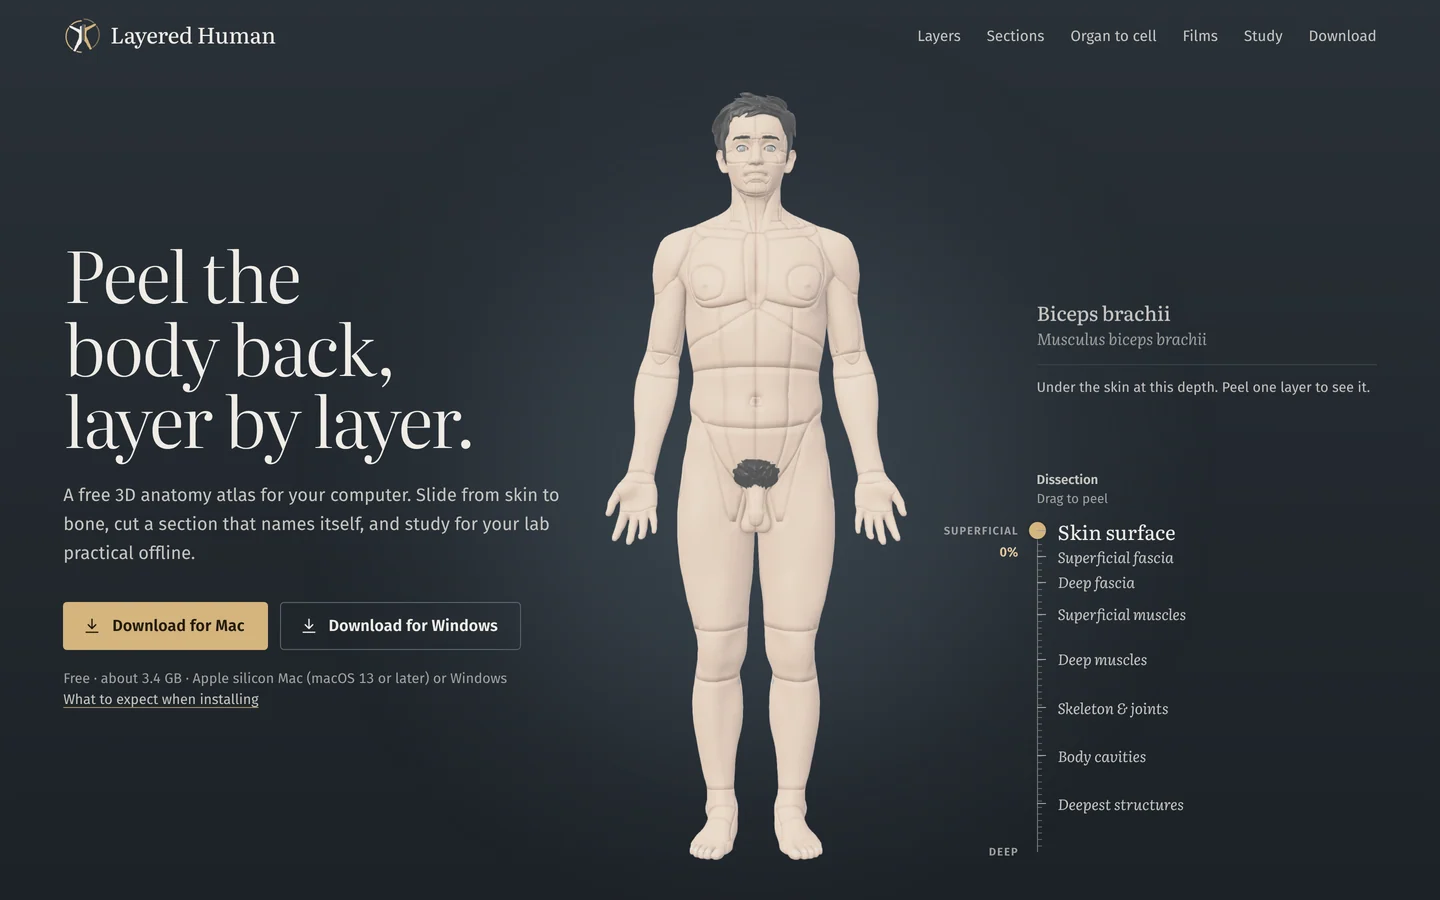
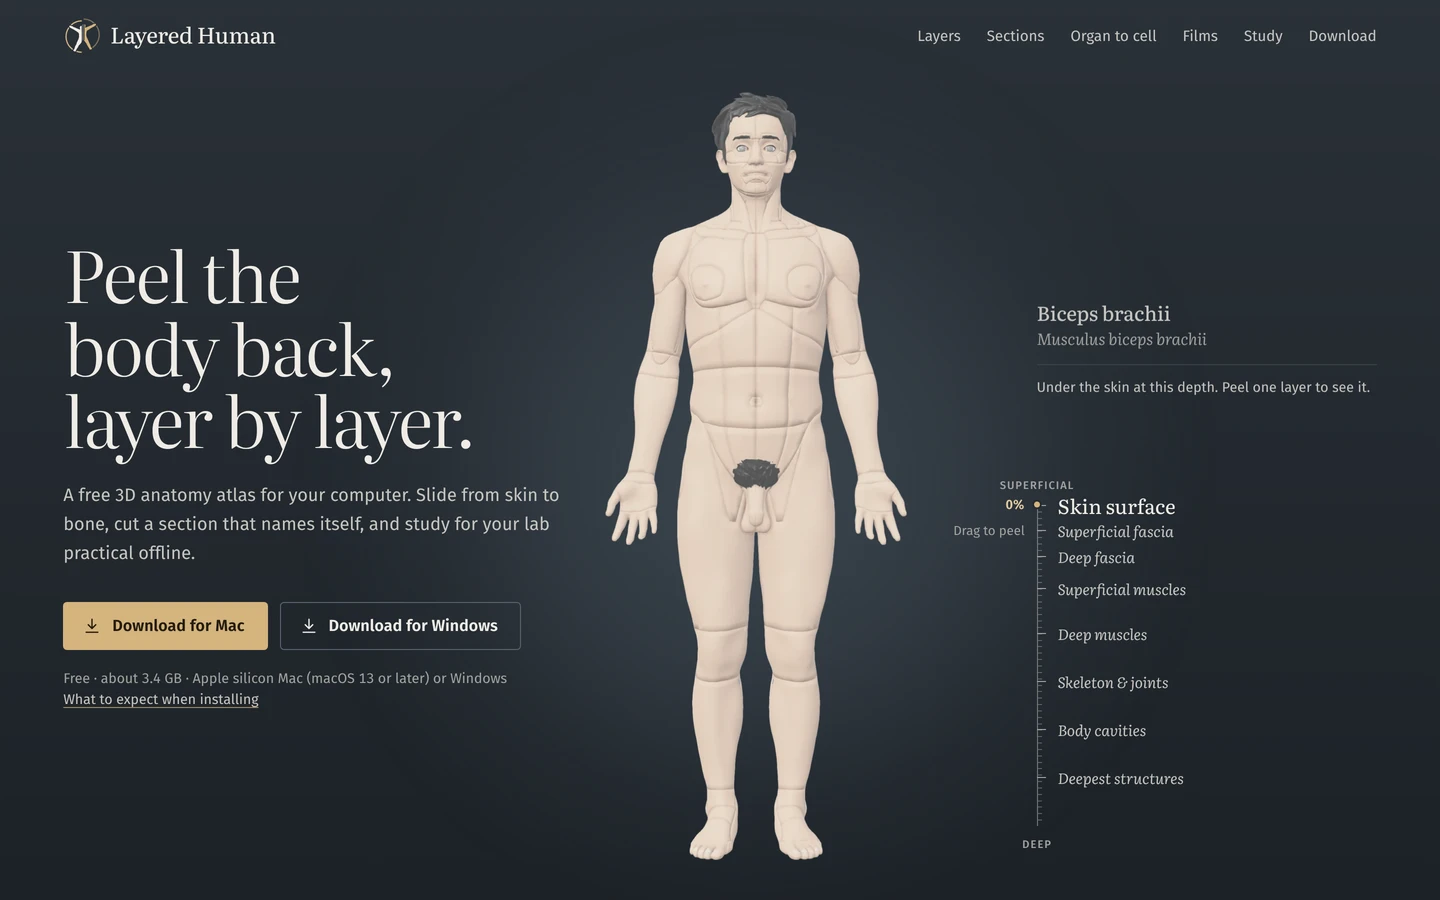
Website: no Dissection caption, knob the height of the percentage, phone hero without the lit rectangle, lighter first screen
The leg fade masked the figure's own spotlight pool at the figure's edges; it now masks only the plates. Hero plates
get 72% copies picked by device height, the first is preloaded, and the other images list smaller sizes in srcset.

Claude-Session: https://claude.ai/code/session_01V6Rv2hd8qtgD4JUJWb2Nr9

Changed region(s): [[0.6562, 0.5289, 0.8125, 0.9022], [0.6875, 0.9333, 0.7188, 0.9644]]

diff --git a/docs/design/2026-10-14-layered-human/site/specimen/index.html b/docs/design/2026-10-14-layered-human/site/specimen/index.html
@@ -377,7 +377,7 @@ main { overflow-x: clip; }
 .g-end.bot { top: calc(100% + 12px); }
 /* the percentage rides beside the knob, left of the rule; its figures span the knob exactly */
 .g-pct { position: absolute; right: calc(100% + 12px); top: calc(var(--d) * 100%); transform: translateY(-50%);
-  margin-top: .25px; font: 600 13px/18px var(--sans); color: var(--accent-2); font-variant-numeric: tabular-nums lining-nums; white-space: nowrap; }
+  font: 600 13px/18px var(--sans); color: var(--accent-2); font-variant-numeric: tabular-nums lining-nums; white-space: nowrap; }
 /* the one cue that the body peels: a quiet line under the percentage, gone once the gauge has been used */
 .g-cue { position: absolute; right: calc(100% + 12px); top: 17px; margin: 0; white-space: nowrap;
   font: 400 13px/18px var(--sans); color: var(--text-3); transition: opacity .4s var(--ease), visibility .4s; }
@@ -385,7 +385,7 @@ main { overflow-x: clip; }
 /* The knob is as tall as the percentage's figures, as in the app: a 6 px brass dot in a 1.75 px ring of the wall's own
    colour, 9.5 px across. The invisible ::after keeps the target at 24 px for a mouse and 44 px for a finger. */
 .g-knob {
-  position: absolute; left: .5px; top: calc(var(--d) * 100%); transform: translate(-50%, -50%);
+  position: absolute; left: .5px; top: calc(var(--d) * 100%); transform: translate(-50%, calc(-50% - .5px));
   width: 6px; height: 6px; border-radius: 50%; background: var(--accent);
   box-shadow: 0 0 0 1.75px color-mix(in srgb, var(--stage-top) 50%, var(--stage-bottom));
   cursor: grab; touch-action: none; z-index: 2;
@@ -883,11 +883,11 @@ main { overflow-x: clip; }
   <div class="wrap">
     <ol class="gallery" id="gallery" aria-label="The same body at six dissection depths">
       <li><figure class="exhibit" tabindex="0">
-        <div class="pool peel-pool"><img class="lift" src="../../assets/plates/peel_00_skin.webp" srcset="img/peel_00_skin-420.webp 420w, ../../assets/plates/peel_00_skin.webp 929w" sizes="auto, (max-width: 760px) 62vw, 200px" width="929" height="2240" loading="lazy" alt="The body at 0% dissection depth: the skin surface, nothing removed"></div>
+        <div class="pool peel-pool"><img class="lift" src="../../assets/plates/peel_00_skin.webp" srcset="img/peel_00_skin-420.webp 420w, img/peel_00_skin-m.webp 669w, ../../assets/plates/peel_00_skin.webp 929w" sizes="auto, (max-width: 760px) 62vw, 200px" width="929" height="2240" loading="lazy" alt="The body at 0% dissection depth: the skin surface, nothing removed"></div>
         <figcaption class="lit-fade"><span class="pl-name">Skin surface</span><span class="pl-depth">0–8%</span><span class="pl-line">The body as you first see it, nothing taken away.</span></figcaption>
       </figure></li>
       <li><figure class="exhibit" tabindex="0">
-        <div class="pool peel-pool"><img src="../../assets/plates/peel_16_fascia.webp" srcset="img/peel_16_fascia-420.webp 420w, ../../assets/plates/peel_16_fascia.webp 909w" sizes="auto, (max-width: 760px) 62vw, 200px" width="909" height="2194" loading="lazy" alt="The body at 16% dissection depth: the deep fascia over the muscles of the trunk and limbs"></div>
+        <div class="pool peel-pool"><img src="../../assets/plates/peel_16_fascia.webp" srcset="img/peel_16_fascia-420.webp 420w, img/peel_16_fascia-m.webp 654w, ../../assets/plates/peel_16_fascia.webp 909w" sizes="auto, (max-width: 760px) 62vw, 200px" width="909" height="2194" loading="lazy" alt="The body at 16% dissection depth: the deep fascia over the muscles of the trunk and limbs"></div>
         <figcaption class="lit-fade"><span class="pl-name">Deep fascia</span><span class="pl-depth">16–26%</span><span class="pl-line">The fascia that wraps the muscles of the trunk and limbs.</span></figcaption>
       </figure></li>
       <li><figure class="exhibit" tabindex="0">
@@ -895,15 +895,15 @@ main { overflow-x: clip; }
         <figcaption class="lit-fade"><span class="pl-name">Superficial muscles</span><span class="pl-depth">26–40%</span><span class="pl-line">The deltoid, the biceps, the abdominal wall and the front of the thigh.</span></figcaption>
       </figure></li>
       <li><figure class="exhibit" tabindex="0">
-        <div class="pool peel-pool"><img src="../../assets/plates/peel_40_deep.webp" srcset="img/peel_40_deep-420.webp 420w, ../../assets/plates/peel_40_deep.webp 894w" sizes="auto, (max-width: 760px) 62vw, 200px" width="894" height="2178" loading="lazy" alt="The body at 40% dissection depth: ribcage, abdominal organs and deep muscles exposed"></div>
+        <div class="pool peel-pool"><img src="../../assets/plates/peel_40_deep.webp" srcset="img/peel_40_deep-420.webp 420w, img/peel_40_deep-m.webp 644w, ../../assets/plates/peel_40_deep.webp 894w" sizes="auto, (max-width: 760px) 62vw, 200px" width="894" height="2178" loading="lazy" alt="The body at 40% dissection depth: ribcage, abdominal organs and deep muscles exposed"></div>
         <figcaption class="lit-fade"><span class="pl-name">Deep muscles</span><span class="pl-depth">40–55%</span><span class="pl-line">Ribcage, abdominal organs and the deep muscles.</span></figcaption>
       </figure></li>
       <li><figure class="exhibit" tabindex="0">
-        <div class="pool peel-pool"><img src="../../assets/plates/peel_55_skeleton.webp" srcset="img/peel_55_skeleton-420.webp 420w, ../../assets/plates/peel_55_skeleton.webp 792w" sizes="auto, (max-width: 760px) 62vw, 200px" width="792" height="2178" loading="lazy" alt="The body at 55% dissection depth: the bones and joints of the limbs, with the thoracic and abdominal organs in place"></div>
+        <div class="pool peel-pool"><img src="../../assets/plates/peel_55_skeleton.webp" srcset="img/peel_55_skeleton-420.webp 420w, img/peel_55_skeleton-m.webp 570w, ../../assets/plates/peel_55_skeleton.webp 792w" sizes="auto, (max-width: 760px) 62vw, 200px" width="792" height="2178" loading="lazy" alt="The body at 55% dissection depth: the bones and joints of the limbs, with the thoracic and abdominal organs in place"></div>
         <figcaption class="lit-fade"><span class="pl-name">Skeleton &amp; joints</span><span class="pl-depth">55–70%</span><span class="pl-line">Bones and joints of the limbs, the organs still in place.</span></figcaption>
       </figure></li>
       <li><figure class="exhibit" tabindex="0">
-        <div class="pool peel-pool"><img src="../../assets/plates/peel_70_cavities.webp" srcset="img/peel_70_cavities-420.webp 420w, ../../assets/plates/peel_70_cavities.webp 773w" sizes="auto, (max-width: 760px) 62vw, 200px" width="773" height="2074" loading="lazy" alt="The body at 70% dissection depth: the heart, the great vessels and the organs at the back of the abdomen"></div>
+        <div class="pool peel-pool"><img src="../../assets/plates/peel_70_cavities.webp" srcset="img/peel_70_cavities-420.webp 420w, img/peel_70_cavities-m.webp 557w, ../../assets/plates/peel_70_cavities.webp 773w" sizes="auto, (max-width: 760px) 62vw, 200px" width="773" height="2074" loading="lazy" alt="The body at 70% dissection depth: the heart, the great vessels and the organs at the back of the abdomen"></div>
         <figcaption class="lit-fade"><span class="pl-name">Body cavities</span><span class="pl-depth">70–85%</span><span class="pl-line">The heart, the great vessels and the kidneys.</span></figcaption>
       </figure></li>
     </ol>
@@ -943,7 +943,7 @@ main { overflow-x: clip; }
       <figcaption class="wall-label">
         <p class="wl-title">Transverse section of the thorax</p>
         <p class="wl-latin">Seen from below, as on a CT</p>
-        <p class="wl-detail">Transverse section through the thorax, seen from below, as on a CT. Every structure the plane passes through is named.</p>
+        <p class="wl-detail">Nine structures named on this cut, from the sternum to a thoracic vertebra.</p>
         <p class="wl-acc">Atlas · Sections · sagittal, coronal, transverse</p>
       </figcaption>
     </div>
@@ -977,7 +977,7 @@ main { overflow-x: clip; }
       <div class="wall-label" style="margin:48px 0 0 auto">
         <p class="wl-title">Kidney with the nephron</p>
         <p class="wl-latin">Ren, nephron, podocytus</p>
-        <p class="wl-detail">Kidney with the nephron. True scale. Eight stored views.</p>
+        <p class="wl-detail">The kidney, adrenal, vessels and ureter with a nephron in place, at true scale. Eight stored views zoom from one scale to the next.</p>
         <p class="wl-acc">Models · 41 models · one viewer</p>
       </div>
     </div>
@@ -1478,7 +1478,7 @@ main { overflow-x: clip; }
       img.style.height = ((b[3] - b[1]) / SH * 100) + '%';
     }
     /* the 72 % copies in img/ are enough up to about 1,600 device pixels of figure height (a phone at 3x, 1440 at 2x) */
-    var MED = /^(peel_00_skin|peel_16_fascia|peel_40_deep|peel_55_skeleton|peel_70_cavities|peel_85_deepest|hero26?_sel_ffffff)$/;
+    var MED = /^(peel_00_skin|peel_16_fascia|peel_40_deep|peel_55_skeleton|peel_70_cavities|peel_85_deepest|hero(26)?_sel_ffffff)$/;
     function src(name) {
       var px = stage.offsetHeight * (window.devicePixelRatio || 1);
       return MED.test(name) && px <= 1650 ? 'img/' + name + '-m.webp' : '../../assets/plates/' + name + '.webp';
